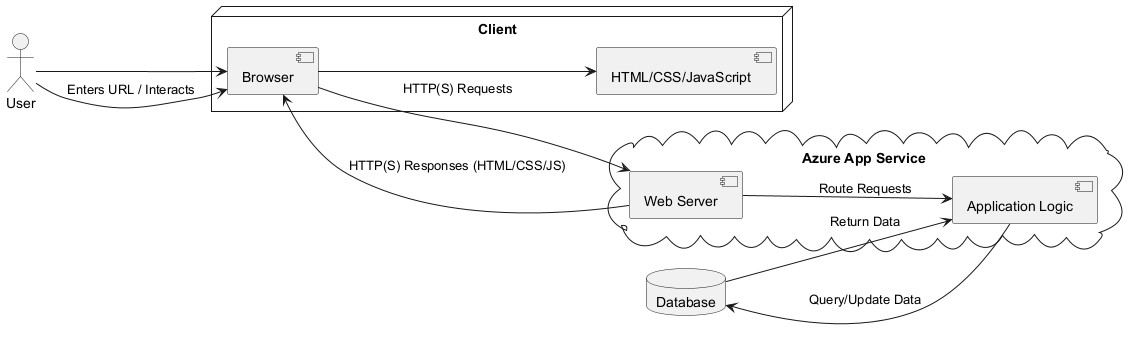
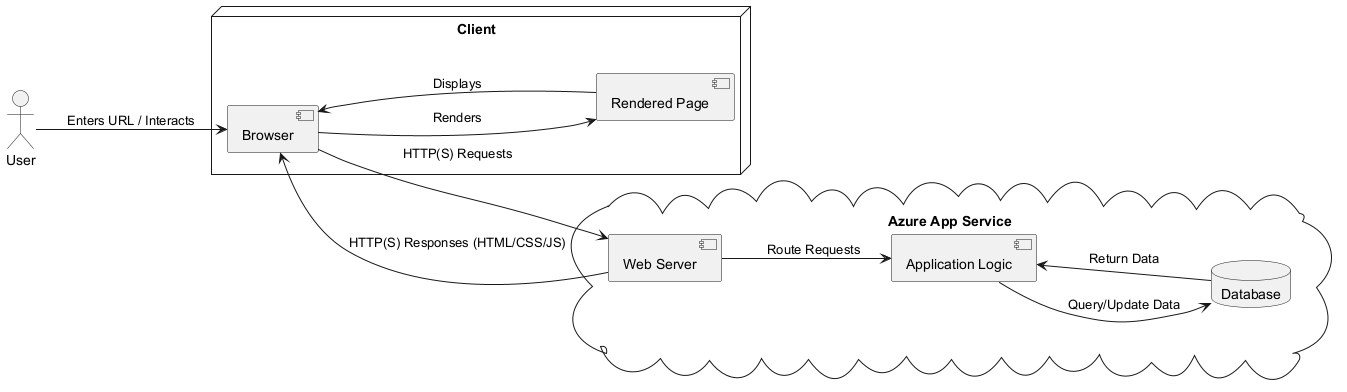
HTML img syntax and descriptions

diff --git a/docs/pages/1DesignAndArchitectureOfChirp/5SequenceOfFuncAndCallsThroughChirp.md b/docs/pages/1DesignAndArchitectureOfChirp/5SequenceOfFuncAndCallsThroughChirp.md
@@ -4,23 +4,52 @@ Make sure that your illustration is complete. That is, likely for many of you th
 
 UML sequence diagrams
 
-![[../../diagrams/SimunsPics/NewUser.png]]
-\
-In the above diagram can be tracked the flow of a user signing up for (or in to) our service. 
-The user accesses the web app by navigating to any of the sites endpoints.
-This sends a ***HTTP GET*** request to the server.
-The user being not yet authorised, is only presented the option of logging in - by way of a HTML response.
-The user 
-\
-![[../../diagrams/SimunsPics/_Search.png]]
-\
-![[../../diagrams/SimunsPics/_Follow.png]]
-\
-![[../../diagrams/SimunsPics/_Post.png]]
-\
-```ruby
-class Max
-    public static void Mark(){
+<img src="../../diagrams/SimunsPics/NewUser.png" alt="New User" style="max-width: 100%; height: auto; display: block; margin: auto;">
 
-    }
-```
+\
+The above diagram illustrates the flow of a user signing up for (or in to) our service. 
+The user, upon navigating to the root endpoint, initiates an ``HTTP GET`` request which is processed by the web server. The server checks whether the user is authorized. 
+Since the user is not yet authenticated, the server responds with an ``HTML`` page that displays an empty public timeline and a login button.
+
+If the user chooses to log in, they interact with the login page by clicking the login button, which sends another ``HTTP GET`` request to the ``/login`` endpoint. The server responds by rendering the ``Login.cshtml`` Razor page, presenting the user with a form to either log in or register.
+
+Once the user submits their credentials via the form, an ``HTTP POST`` request is sent to the ``/login`` endpoint. The web server validates the credentials. If authentication succeeds, the server redirects the user back to the public timeline view.
+
+As an authenticated user, the browser sends another ``HTTP GET`` request to the root endpoint. This triggers the server to render the ``PublicTimeLine.cshtml`` Razor page by invoking the ``OnGetAsync()`` method. During this process, the PublicTimeLine component calls the ``CheepService`` to retrieve public messages and their count. The ``CheepService``, in turn, queries the ``CheepRepository``, which executes database queries to fetch the required data.
+
+Once the database returns the list of *Cheeps* and their count, the information is passed back up through the service and controller layers to the ``PublicTimeLine`` component. The Razor page is rendered with the retrieved *Cheeps*, and an ``HTML`` response is returned to the browser. The user's browser then displays the fully rendered public timeline with the fetched *Cheeps*.\
+\
+\
+\
+<img src="../../diagrams/SimunsPics/_Post.png" alt="Post Cheep" style="max-width: 80%; height: auto; display: block; margin: auto;">
+\
+When posting a cheep, a user would initiate the following flow.
+Typing a post into the input field and pressing "Enter," the browser triggers an event to process the input. This sends an ``HTTP POST`` request with the form data to the web server. The server invokes the ``OnPostSave()`` method in the ``PublicTimeLine`` component to handle the post submission.
+
+First, the post content is validated, and if an image is included, it is saved with a ``URL`` returned, designating the filepath of the stored image. The ``PublicTimeLine`` component then interacts with the ``CheepService`` to locate the author of the post. The ``CheepService`` queries the ``CheepRepository``, which fetches the author data from the database and returns it back up the chain.
+
+With the author information, a new ``Cheep message`` is created and sent to the ``CheepRepository`` for saving in the database. Once the database confirms the save, the success response propagates back through the ``CheepService`` and ``PublicTimeLine`` component.
+
+Finally, the server renders the updated ``PublicTimeLine.cshtml`` Razor page, including the new *Cheep*, and sends the ``HTML`` response to the browser. The browser then displays the updated timeline to the user with their newly posted message.
+\
+\
+\
+<img src="../../diagrams/SimunsPics/_Search.png" alt="Search" style="max-width: 80%; height: auto; display: block; margin: auto;">
+\
+When using the search functionality, the browser immediately triggers an input event for each keystroke, as the user types into the search input field. This sends an ``HTTP POST`` request to the web server, containing the current search string. The server calls the ``OnPostSearch()`` method in the ``TimeLine`` component to handle the search.
+
+The ``TimeLine`` component extracts the search string and interacts with the ``CheepService`` to find matching authors. The ``CheepService`` queries the ``CheepRepository``, which searches the database for users matching the input. The results are returned as a list of *Author* data objects, which are sent back to the browser in a ``JSON`` response.
+
+Upon receiving the response, the browser dynamically calls the ``showResults()`` function, which creates and updates ``DOM`` elements to display the search results. This allows the user to see search results updating in real-time as they type, rather than having to complete a search and press Enter.
+\
+\
+\
+<img src="../../diagrams/SimunsPics/_Follow.png" alt="Follow Action" style="max-width: 80%; height: auto;display: block; margin: auto;">
+\
+When a user presses the follow button on an authors page, the browser triggers an input event and sends an ``HTTP POST`` request to the web server, containing the usernames of the follower and the followee. The server invokes the ``OnPostFollow()`` method in the ``UserTimeLine`` component to handle the follow/unfollow action.
+
+The ``UserTimeLine`` component calls the ``CheepService`` to retrieve both user profiles. The ``CheepService`` queries the ``CheepRepository``, which fetches the users' data from the database. Once the user data is returned, the service checks whether the initiating user *(Author A)* is already following the target user *(Author B)*.
+- If *Author A* is not following *Author B*, the ``CheepService`` creates a follow relationship between the two users and saves it to the database.
+- If *Author A* is already following *Author B*, the ``CheepService`` removes the follow relationship from the database.
+
+Upon successful follow/unfollow, a response is propagated back through the ``CheepService`` and ``UserTimeLine`` component. The updated ``UserTimeLine.cshtml`` Razor page is rendered by the server and sent to the browser. The browser then displays the updated timeline, reflecting the user's changed follow/unfollow status dynamically.

diff --git a/docs/pages/1DesignAndArchitectureOfChirp/3ArchitectureOfDeployedApplication.md b/docs/pages/1DesignAndArchitectureOfChirp/3ArchitectureOfDeployedApplication.md
@@ -1,6 +1,15 @@
 <!-- Illustrate the architecture of your deployed application. Remember, you developed a client-server application. Illustrate the server component and to where it is deployed, illustrate a client component, and show how these communicate with each other. -->
 
 
-![[../../diagrams/SimunsPics/AppArch.png]]
-This is the Client/Server architecture.
-As illustrated all the rendering happens client-side, while the Azure-hosted server-side handles logic and storage.
+<img src="../../diagrams/SimunsPics/AppArch.png" alt="New User" style="max-width: 100%; height: auto; display: block; margin: auto;">
+
+\
+This diagram illustrates the architecture of the Chirp application as well as the interaction between its key components. The system is divided into three main layers: the Client, the Server, and the Database, all hosted within an Azure environment.
+- **Client Layer**: The user interacts with the application via a web browser. When the user enters a ``URL`` or performs an action, the browser sends ``HTTP`` requests to the server. The browser receives responses in the form of ``HTML``, ``CSS``, and ``JavaScript``, which it uses to render and display the user interface.  
+
+- **Server Layer**: Hosted on *Azure App Service*, the server consists of two primary components: the Web Server and the Application Logic. The web server handles incoming ``HTTP`` requests from the client and routes them to the appropriate application logic. This logic processes the request and, when necessary, queries the database for data or updates.  
+
+- **Database Layer**: The database is integrated into the *Azure* ecosystem and stores all the application's data, such as user information, posts, and relationships. It responds to queries from the application logic with the requested data or confirms successful updates.
+
+The flow begins when a user interacts with the browser (e.g., entering a ``URL``). The browser sends a request to the web server, which processes the request and interacts with the application logic. If data is needed, the application logic queries the database. 
+The database returns the required information, which is processed and formatted by the application logic and web server before being sent back to the client as an ``HTTP`` response. The browser then renders the returned content and updates the user interface dynamically.
